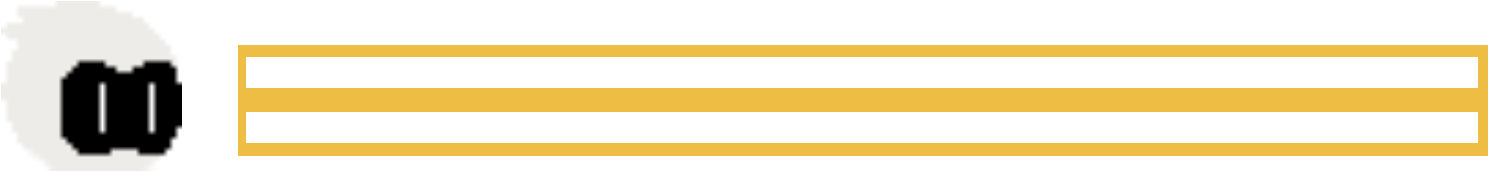
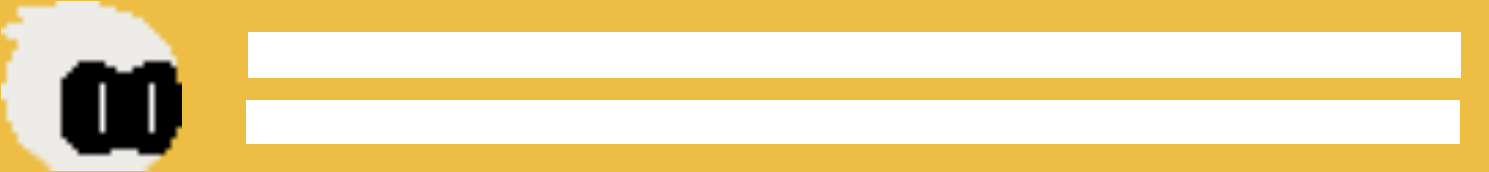
npc implemented

diff --git a/empty-example/javascript/NPC.js b/empty-example/javascript/NPC.js
@@ -1,17 +1,112 @@
 class NPC{
-  constructor(x, y, animations, moving){
+  constructor(x, y, animations, moving, player){
     this.moving = moving;
     this.idleAnimation = animations[0];
+    // this.spriteW = this.this.idleAnimation[0].width;
+    // this.spriteH = this.this.idleAnimation[0].height;
+    this.spriteW = 30;
+    this.spriteH = 90;
+    this.x = x;
+    this.y = y;
+    this.xoffset = 0;
+    this.yoffset = 0;
+    this.previousx = this.x;
+    this.previousy = this.y;
+    this.player = player;
+    this.map = player.map;
     if(this.moving){
       this.walkingAnimation = animations[1];
     }
+    this.bottomCollisionPoint = new CollisionPoint(null, null);
+    this.rightCollisionPoint = new CollisionPoint(null, null);
+    this.leftCollisionPoint = new CollisionPoint(null, null);
+
+    //-----vectors-----
+    this.speed = 6;//walking speed force
+    this.jumpForce = 10;//jumping force
+    this.overallVelocityY = 0;//total force acting on sprite on Y
+    this.overallVelocityX = 0;//total force acting on sprite on X
+    this.gravity = 0.5;//downward pull
+    this.stepsPerFrame = 2;
+  }
+
+
+  collisionDetectionSide(){
+    let nonBumped = true;
+      let tileX = Math.floor(this.rightCollisionPoint.x / this.map.scale);
+      let tileY = Math.floor(this.rightCollisionPoint.y / this.map.scale);
+      let tilePlayerIsOn = this.map.mapTiles[tileY][tileX];
+      if(this.map.airBlocks.includes(tilePlayerIsOn) === false){
+        if(this.slime === false){
+          this.x = this.previousX;
+          nonBumped = false;
+        }
+      }
+    tileX = Math.floor(this.leftCollisionPoint.x / this.map.scale);
+    tileY = Math.floor(this.leftCollisionPoint.y / this.map.scale);
+    tilePlayerIsOn = this.map.mapTiles[tileY][tileX];
+    if(this.map.airBlocks.includes(tilePlayerIsOn) === false){
+      if(this.slime === false){
+        this.x = this.previousX;
+        nonBumped = false;
+      }
+    }
+    // if(nonBumped){
+      this.previousX = this.x;
+    // }
+  }
+
+  collisionDetectionBottom(){
+    let nonBumped = true;
+    let tileX = Math.floor(this.bottomCollisionPoint.x / this.map.scale);
+    let tileY = Math.floor(this.bottomCollisionPoint.y / this.map.scale);
+    // console.log(this.bottomCollisionPoint.x, this.bottomCollisionPoint.y, this.map.scale);
+    let tilePlayerIsOn = this.map.mapTiles[tileY][tileX];
+    if(this.map.airBlocks.includes(tilePlayerIsOn) === false){
+      this.y = this.previousY;
+      this.overallVelocityY = 0;
+      nonBumped = false;
+    }
+    if(nonBumped){
+      this.previousY = this.y;
+    }
+  }
+
+  collisionPointsUpdate(){
+    this.leftCollisionPoint.x = this.x - this.spriteW/2;
+    this.leftCollisionPoint.y = this.y;
+    this.rightCollisionPoint.x = this.x + this.spriteW/2;
+    this.rightCollisionPoint.y = this.y;
+    this.bottomCollisionPoint.x = this.x;
+    this.bottomCollisionPoint.y = this.y + this.spriteH/2;
+    }
+
+  gravityPull(){
+    this.overallVelocityY += this.gravity;
   }
 
   show(){
-    image(this.idleAnimation[0]);
+    // image(this.idleAnimation[0]);
+    fill(0);
+    rect(this.x-this.spriteW/2 + this.xoffset, this.y-this.spriteH/2 + this.yoffset, this.spriteW, this.spriteH);
   }
-  update(){
 
+  update(){
+    this.gravityPull();
+    this.y += this.overallVelocityY;
+    this.collisionPointsUpdate();
+    this.collisionDetectionBottom();
+    this.collisionDetectionSide();
+    this.collisionPointsUpdate();
+    this.xoffset = this.player.xoffset;
+    this.yoffset = this.player.yoffset;
+
+    this.x -= 1;
+  }
+
+  run(){
+    this.show();
+    this.update();
   }
 
 }

diff --git a/empty-example/javascript/particles.js b/empty-example/javascript/particles.js
@@ -1,0 +1,50 @@
+let Particle = function(position) {
+  this.acceleration = createVector(0, 0.05);
+  this.velocity = createVector(random(-1, 1), random(-1, 0));
+  this.position = position.copy();
+  this.lifespan = 255;
+};
+
+Particle.prototype.run = function() {
+  this.update();
+  this.display();
+};
+
+// Method to update position
+Particle.prototype.update = function(){
+  this.velocity.add(this.acceleration);
+  this.position.add(this.velocity);
+  this.lifespan -= 2;
+};
+
+// Method to display
+Particle.prototype.display = function() {
+  stroke(200, this.lifespan);
+  strokeWeight(2);
+  fill(127, this.lifespan);
+  ellipse(this.position.x, this.position.y, 12, 12);
+};
+
+// Is the particle still useful?
+Particle.prototype.isDead = function(){
+  return this.lifespan < 0;
+};
+
+let ParticleSystem = function(position) {
+  this.origin = position.copy();
+  this.particles = [];
+};
+
+ParticleSystem.prototype.addParticle = function() {
+  this.particles.push(new Particle(this.origin));
+};
+
+ParticleSystem.prototype.run = function() {
+  for (let i = this.particles.length-1; i >= 0; i--) {
+    let p = this.particles[i];
+    p.run();
+    if (p.isDead()) {
+      this.particles.splice(i, 1);
+    }
+  }
+};

diff --git a/empty-example/javascript/sketch.js b/empty-example/javascript/sketch.js
@@ -5,6 +5,7 @@ var playerHud;
 var map1;
 var mapScale = screenY;
 var animationsAndInstructions = [[], []];
+var testNPC;
 
 var images = {
   brick: null,
@@ -60,7 +61,6 @@ function setup() {
   map1 = new Map(mapTiles, images, mapScale);
   player = new Player(map1.scale*2, 400, map1, images.player, animationsAndInstructions);
   playerHud = new PlayerHud(player);
-
   // frameRate(60);
 }
 
@@ -73,6 +73,11 @@ function draw(){
   noStroke();
   playerHud.show();
   playerHud.update();
+  if(testNPC != null){
+    testNPC.run();
+  }
+  // system.addParticle();
+  // system.run();
 
   // scale(1, 1);
   // for(let i = 0; i < player.numberOfCollisionPointsOnSide; i++){
@@ -100,6 +105,7 @@ function draw(){
 
 }
 
+
 function keyPressed(){
   if (key == ' '){
     player.jump();
@@ -109,7 +115,7 @@ function keyPressed(){
   }
   if(key == 'z')
   {
-    player.moveToClick();
+    testNPC = new NPC(mouseX, mouseY, [], [], player);
   }
   if(key == 'p')
   {

diff --git a/empty-example/javascript/PlayerClass.js b/empty-example/javascript/PlayerClass.js
@@ -545,14 +545,10 @@ class Player{
   show(){//render
     fill(255);
     this.changeAnimation();
-    // rect(this.x - (this.spriteWidth / 2), this.y - (this.spriteHeight / 2), this.spriteWidth, this.spriteHeight);
-    // image(this.image, (this.x - (this.spriteWidth / 2)) + this.xoffset, (this.y - (this.spriteHeight / 2)) + this.yoffset, this.spriteWidth, this.spriteHeight);
-    // console.log(this.onWhatFrame);
-    // console.log(this.currentAnimation.length);
     let offsetThis = 0;
     if(this.playerAnimationRight){
       image(this.playAnimation(this.frameCount), (this.x - (this.spriteWidth / 2)) + this.xoffset + offsetThis, (this.y - (this.spriteHeight / 2)) + this.yoffset, this.spriteWidth, this.spriteHeight);
-      // offsetThis = 0;
+  
     }
     else if(this.playerAnimationLeft){
       scale(-1, 1);

diff --git a/empty-example/javascript/Hud.js b/empty-example/javascript/Hud.js
@@ -12,10 +12,10 @@ class PlayerHud{
 
   show(){
     fill(`rgb(255, 0, 0)`);
-    rect(this.hpX, this.hpY, 400 * (this.playerHP[1]/this.playerHP[0]), 20);
+    rect(this.hpX, this.hpY, 400 * (this.playerHP[1]/this.playerHP[0]), 25);
     fill(`rgb(0, 0, 255)`);
-    rect(this.mpX, this.mpY + 20, 400 * (this.playerMP[1]/this.playerMP[0]), 20);
-    // image(this.mainImageHud, 20, 20, screenX/4, (((screenX/4) * this.mainImageHud.height)/this.mainImageHud.width));
+    rect(this.mpX, this.mpY + 25, 400 * (this.playerMP[1]/this.playerMP[0]), 25);
+    image(this.mainImageHud, 0, 0, 400, 50);
   }
   update(){
     this.playerHP = [this.player.MaxHP, this.player.CurrentHP];

diff --git a/empty-example/index.html b/empty-example/index.html
@@ -11,6 +11,8 @@
     <script src="./javascript/MapClass.js"></script>
     <script src="./javascript/CollisionClass.js"></script>
     <script src="./javascript/Hud.js"></script>
+    <script src="./javascript/particles.js"></script>
+    <script src="./javascript/NPC.js"></script>
     <style>
   </head>
   <body>
